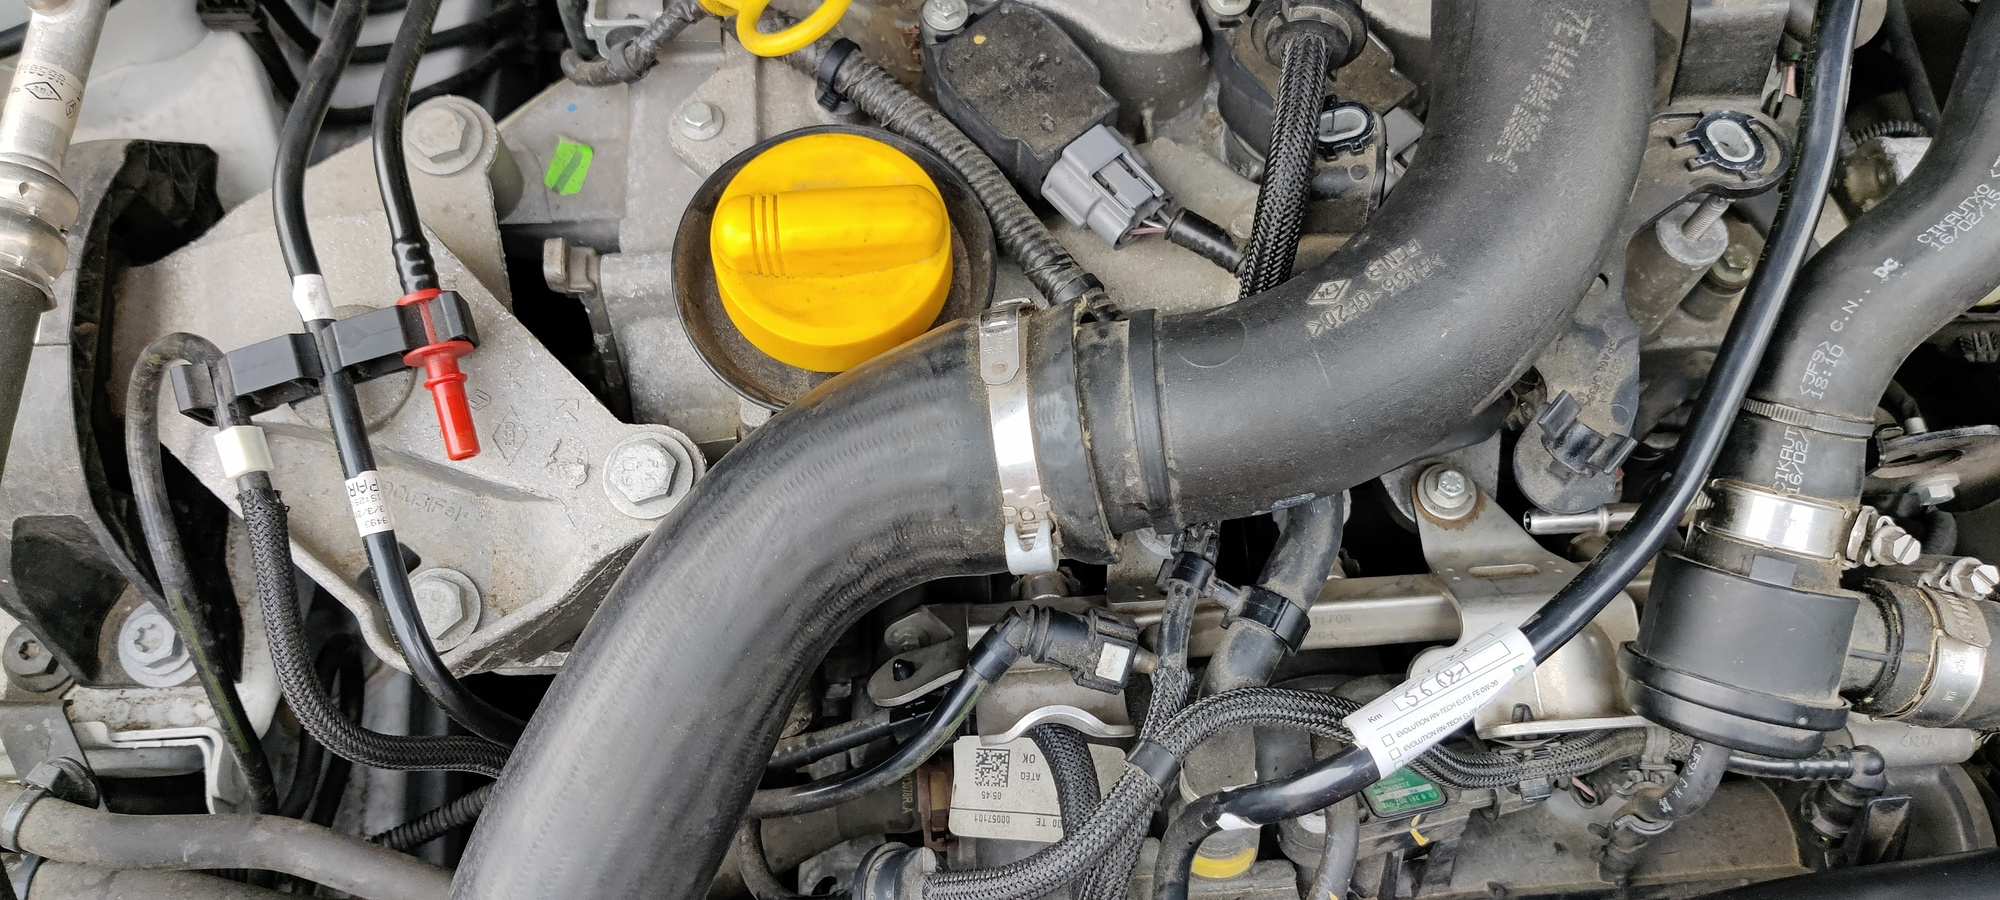
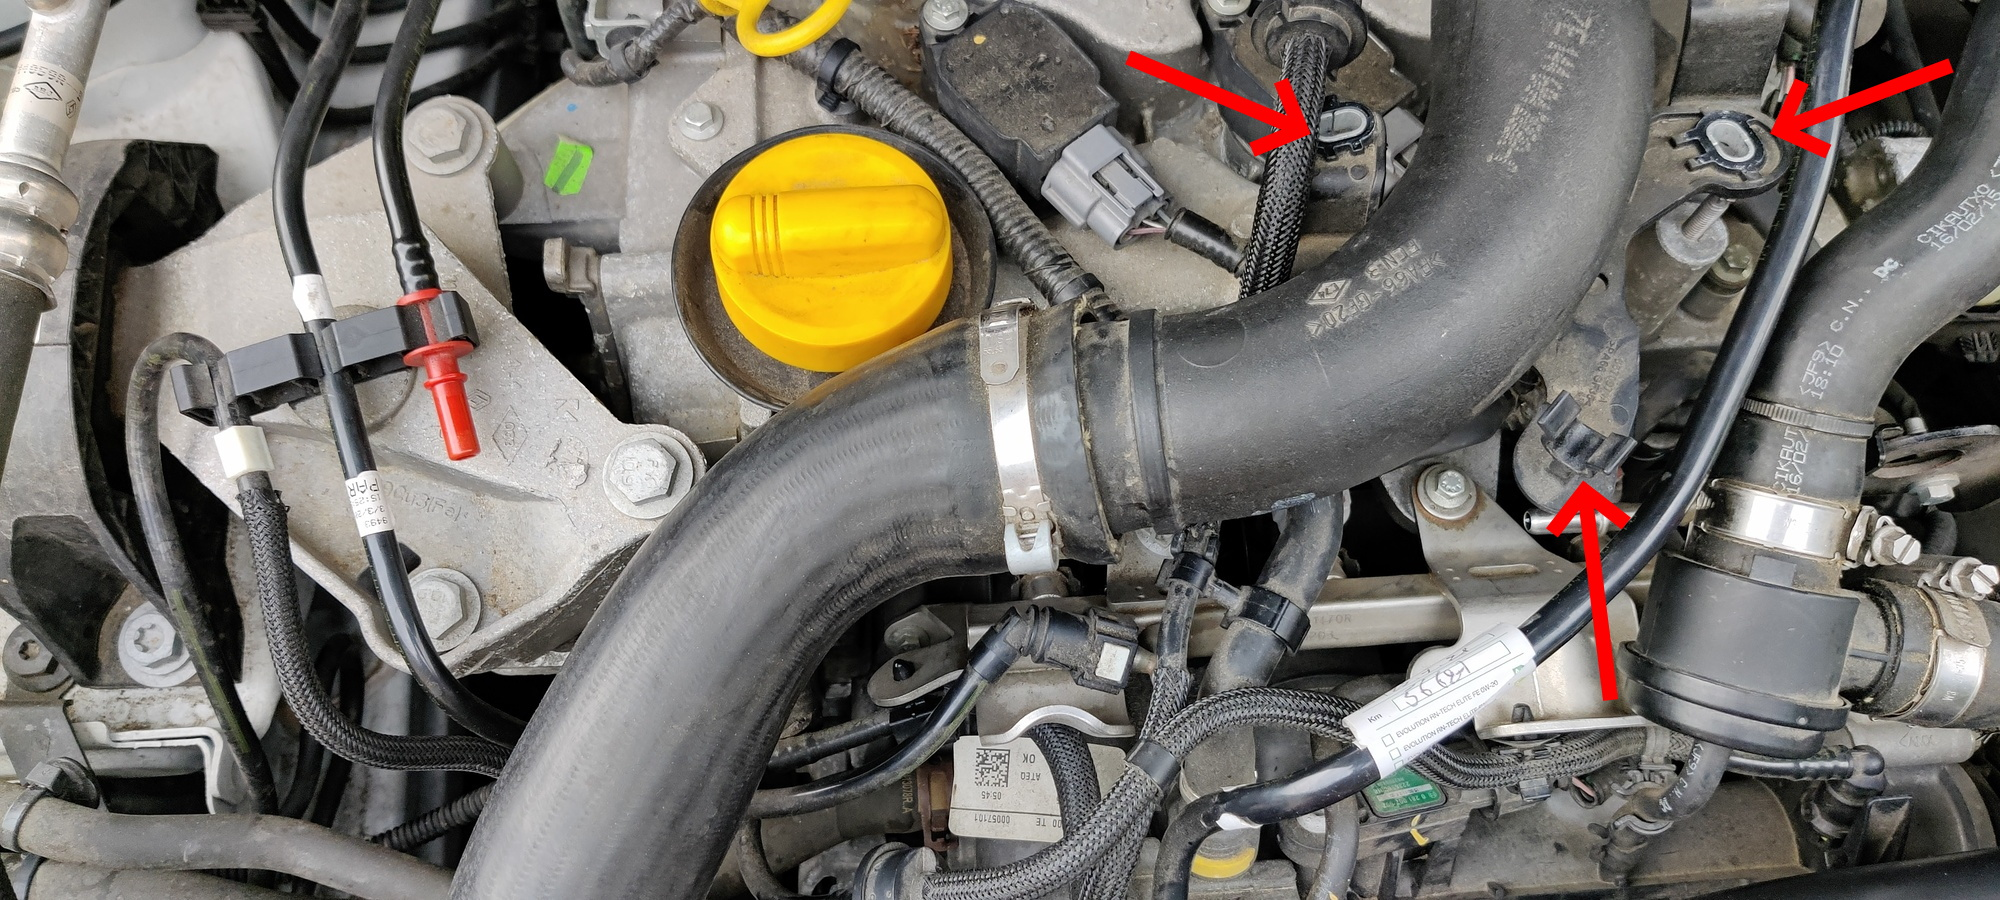
création

Changed region(s): [[0.775, 0.5289, 0.837, 0.7778], [0.868, 0.0622, 0.992, 0.1867], [0.558, 0.0622, 0.651, 0.1867]]

diff --git a/posts/mecanique/flexfuel/index.html b/posts/mecanique/flexfuel/index.html
@@ -281,8 +281,8 @@ Pourquoi ? Pour les avis, la qualité apparante du produit, l&rsquo;historique d
 <h2 id="linstallation">L&rsquo;installation</h2>
 <p>L&rsquo;installation en soit n&rsquo;est pas bien compliquée dès lors que l&rsquo;on dispose d&rsquo;une petite caisse à outils classique et de quelques notions de bricolage mécanique.
 En effet, le point le plus dangeureux de la manipulation consiste à venir dériver la conduite d&rsquo;admission du carburant de la rampe d&rsquo;injection vers le capteur d&rsquo;analyse du carburant.</p>
-<h3 id="installation-du-capteur">Installation du capteur</h3>
-<p>![1](images/IMG_20210925_172706.jpg | width=300)</p>
+<h3 id="le-capteur">Le capteur</h3>
+<p><img src="images/IMG_20210925_172706.jpg" alt="1"></p>
 <blockquote>
 <p>Il va falloir venir retirer la durite d&rsquo;alimentation de carburant matérialisée par les 2 fleches rouge.</p>
 </blockquote>
@@ -297,6 +297,35 @@ En effet, le point le plus dangeureux de la manipulation consiste à venir déri
 <p><img src="images/IMG_20210925_173001.jpg" alt="1"></p>
 <blockquote>
 <p>Retirer maintenant la durite. Pensez à la stocker à l&rsquo;abris de façon à pouvoir la remettre si vous retirier à l&rsquo;avenir le boitier.</p>
+</blockquote>
+<p><img src="images/IMG_20210925_173010.jpg" alt="1"></p>
+<blockquote>
+<p>Pour faciliter les prochaines étapes, vous pouvez déviser la durite d&rsquo;admission d&rsquo;air et la décaler sur la gauche. De même pour la durite pneumatique, vous pouvez la déloger et également en déclipser l&rsquo;extrémité pour totalement l&rsquo;enlever de votre zone de travail (nb : on ne le voit pas sur la photo).</p>
+</blockquote>
+<p><img src="images/IMG_20210925_173226.jpg" alt="1"></p>
+<blockquote>
+<p>Il s&rsquo;agit maintenant d&rsquo;utiliser les adaptateurs rapides fournis dans le kit. J&rsquo;ai isolé sur la photo ceux qui m&rsquo;intéressent.</p>
+</blockquote>
+<p><img src="images/IMG_20210925_173407.jpg" alt="1"></p>
+<blockquote>
+<p>Venir clipser le 1er sur la rampe d&rsquo;injection (en forçant légérement).</p>
+</blockquote>
+<p><img src="images/IMG_20210925_173409.jpg" alt="1"></p>
+<blockquote>
+<p>Venir clipser celui qui est coudé à l&rsquo;autre extrémité.</p>
+</blockquote>
+<p><img src="images/IMG_20210925_175059.jpg" alt="1"></p>
+<blockquote>
+<p>J&rsquo;ai décidé de fixer le capteur au niveau de la fixation des durites de liquide de refroidissement. 
+Sachant cela, il faut couper le tuyau flexible d&rsquo;alimentation en carburant pour pouvoir le positionner à la place que vous souhaitez et utiliser les colliers de serrage adaptés.</p>
+</blockquote>
+<p><img src="images/IMG_20210925_175101.jpg" alt="1"></p>
+<blockquote>
+<p>Faire de même pour l&rsquo;autre extrémité.</p>
+</blockquote>
+<p><img src="images/IMG_20210925_175124.jpg" alt="1"></p>
+<blockquote>
+<p>Venir fixer avec des serreflex.</p>
 </blockquote>
 
         </div>
@@ -402,7 +431,7 @@ En effet, le point le plus dangeureux de la manipulation consiste à venir déri
     <li><a href="#mon-choix">Mon choix</a></li>
     <li><a href="#linstallation">L&rsquo;installation</a>
       <ul>
-        <li><a href="#installation-du-capteur">Installation du capteur</a></li>
+        <li><a href="#le-capteur">Le capteur</a></li>
       </ul>
     </li>
   </ul>
